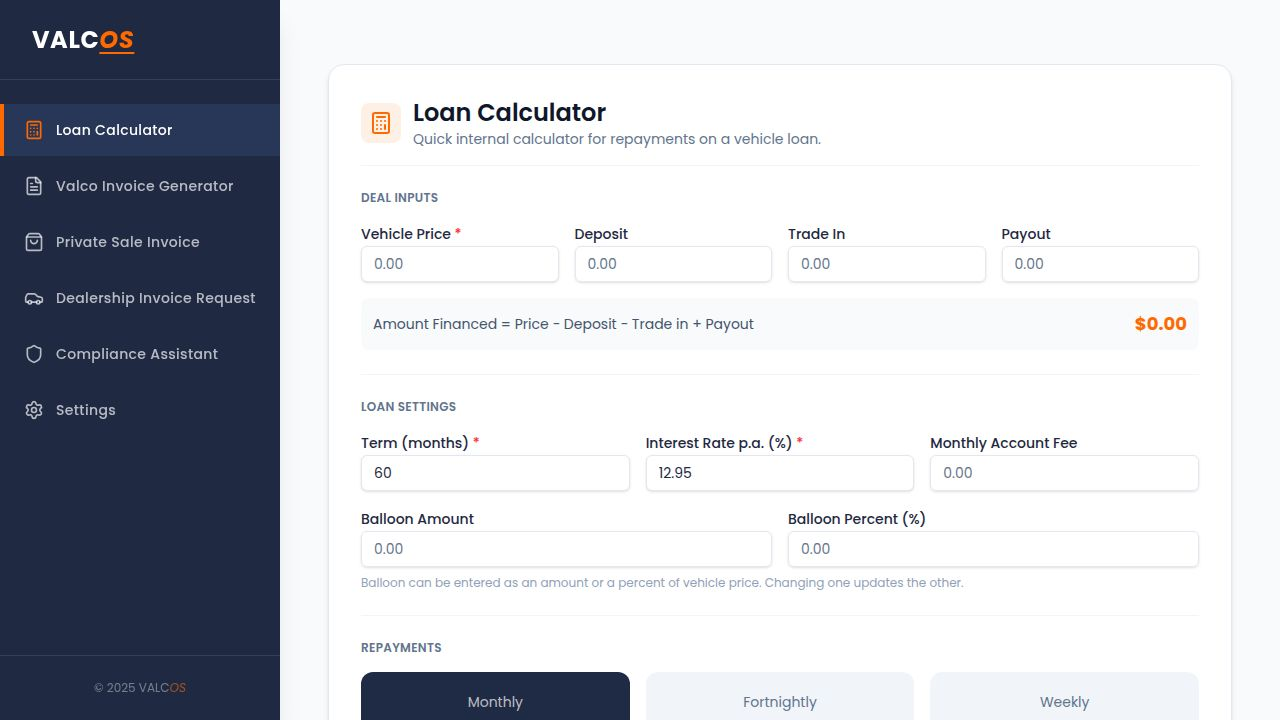
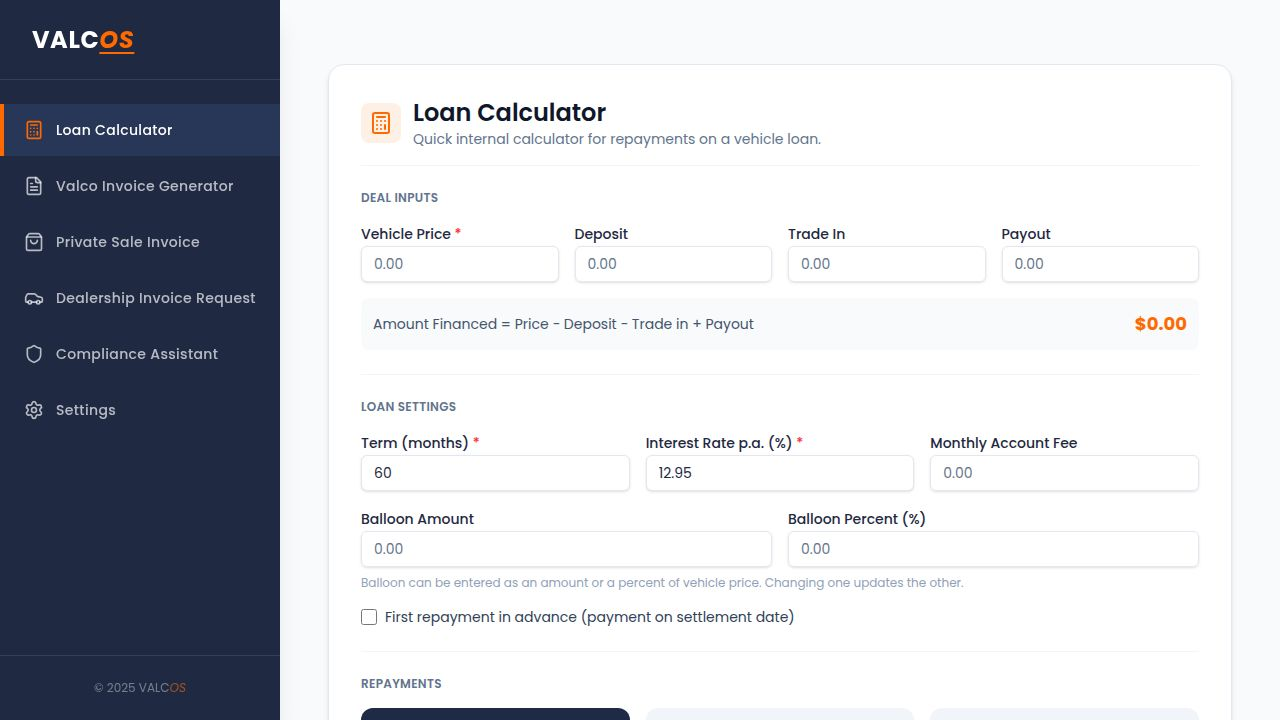
Add option for advance payments in loan calculator
Update loan calculator to support an optional "payment in advance" mode by adding a boolean flag to the form state and adjusting the repayment calculation logic.

Replit-Commit-Author: Agent
Replit-Commit-Session-Id: 84d894f7-b3e9-487e-86f8-bcedd48b8f05
Replit-Commit-Checkpoint-Type: full_checkpoint
Replit-Commit-Event-Id: 4e415194-4b97-4dcb-9798-1439c192d9b0
Replit-Commit-Screenshot-Url: https://storage.googleapis.com/screenshot-production-us-central1/b416b9c3-76b1-40f1-88bb-7a3cda27c809/84d894f7-b3e9-487e-86f8-bcedd48b8f05/wHYmBs7
Replit-Helium-Checkpoint-Created: true

Changed region(s): [[0.2812, 0.8556, 0.625, 1.0], [0.8125, 0.9472, 0.8438, 1.0], [0.5938, 0.9472, 0.625, 1.0]]

diff --git a/client/src/tabs/LoanCalculatorTab.tsx b/client/src/tabs/LoanCalculatorTab.tsx
@@ -40,6 +40,7 @@ export function LoanCalculatorTab() {
   const [balloonPercent, setBalloonPercent] = useState<number>(0);
   const [balloonEditMode, setBalloonEditMode] = useState<'amount' | 'percent' | null>(null);
   const [monthlyFee, setMonthlyFee] = useState<number>(0);
+  const [paymentInAdvance, setPaymentInAdvance] = useState<boolean>(false);
 
   const [clientOrRef, setClientOrRef] = useState("");
   const [errors, setErrors] = useState<ValidationErrors>({});
@@ -51,13 +52,13 @@ export function LoanCalculatorTab() {
   );
 
   const repayments = useMemo(() => {
-    const result = calculateRepayments(amountFinanced, termMonths, annualRate, balloonAmount, monthlyFee);
+    const result = calculateRepayments(amountFinanced, termMonths, annualRate, balloonAmount, monthlyFee, paymentInAdvance);
     return {
       monthly: round2(result.monthly),
       fortnightly: round2(result.fortnightly),
       weekly: round2(result.weekly),
     };
-  }, [amountFinanced, termMonths, annualRate, balloonAmount, monthlyFee]);
+  }, [amountFinanced, termMonths, annualRate, balloonAmount, monthlyFee, paymentInAdvance]);
 
   const handleBalloonAmountChange = (value: number) => {
     setBalloonAmount(value);
@@ -123,6 +124,7 @@ export function LoanCalculatorTab() {
       monthlyRepayment: repayments.monthly,
       fortnightlyRepayment: repayments.fortnightly,
       weeklyRepayment: repayments.weekly,
+      paymentInAdvance,
     };
 
     try {
@@ -311,6 +313,19 @@ export function LoanCalculatorTab() {
               </div>
             </div>
             <p className="text-xs text-slate-400 mt-2">Balloon can be entered as an amount or a percent of vehicle price. Changing one updates the other.</p>
+            
+            <div className="mt-4">
+              <label className="flex items-center gap-2 text-sm text-slate-700 cursor-pointer">
+                <input
+                  type="checkbox"
+                  checked={paymentInAdvance}
+                  onChange={e => setPaymentInAdvance(e.target.checked)}
+                  className="w-4 h-4 rounded border-slate-300 text-primary focus:ring-primary"
+                  data-testid="checkbox-payment-in-advance"
+                />
+                <span>First repayment in advance (payment on settlement date)</span>
+              </label>
+            </div>
           </div>
 
           <div className="h-px bg-slate-100" />

diff --git a/client/src/lib/loanCalc/types.ts b/client/src/lib/loanCalc/types.ts
@@ -12,6 +12,7 @@ export type LoanCalcForm = {
   monthlyRepayment: number;
   fortnightlyRepayment: number;
   weeklyRepayment: number;
+  paymentInAdvance: boolean;
 };
 
 export function calculateAmountFinanced(
@@ -28,7 +29,8 @@ export function calculateRepayments(
   termMonths: number,
   annualRate: number,
   balloonAmount: number,
-  monthlyFee: number
+  monthlyFee: number,
+  paymentInAdvance: boolean = false
 ): { monthly: number; fortnightly: number; weekly: number } {
   const P = amountFinanced;
   const n = termMonths;
@@ -58,7 +60,13 @@ export function calculateRepayments(
     monthlyPrincipalInterest = effectivePrincipal * (r / (1 - Math.pow(1 + r, -n)));
   }
 
-  const monthlyRepayment = monthlyPrincipalInterest + monthlyFee;
+  const monthlyRepaymentArrears = monthlyPrincipalInterest + monthlyFee;
+  
+  let monthlyRepayment = monthlyRepaymentArrears;
+  if (paymentInAdvance && r > 0) {
+    monthlyRepayment = monthlyRepaymentArrears / (1 + r);
+  }
+  
   const fortnightlyRepayment = (monthlyRepayment * 12) / 26;
   const weeklyRepayment = (monthlyRepayment * 12) / 52;
 
